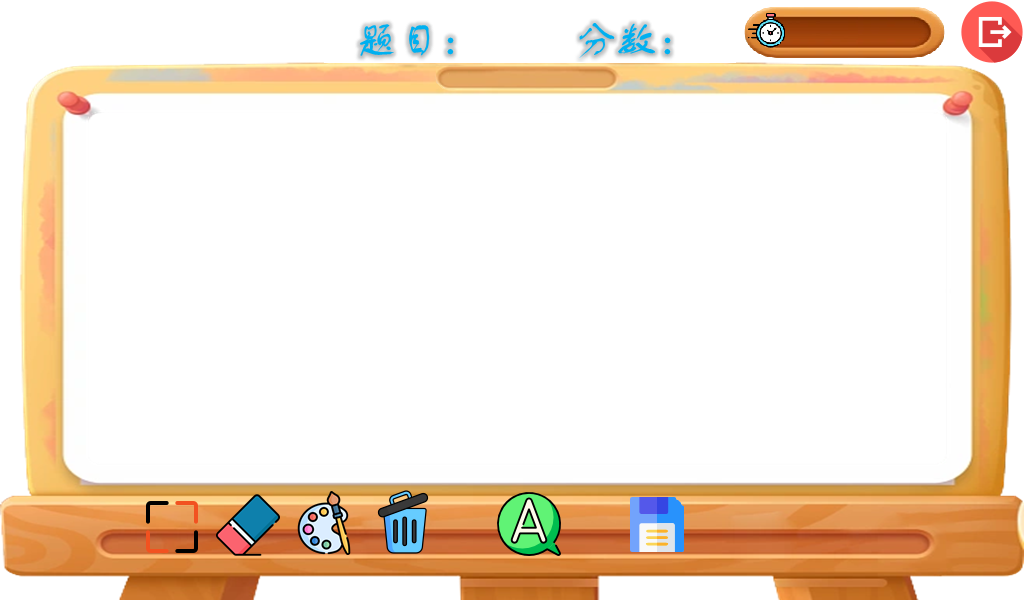
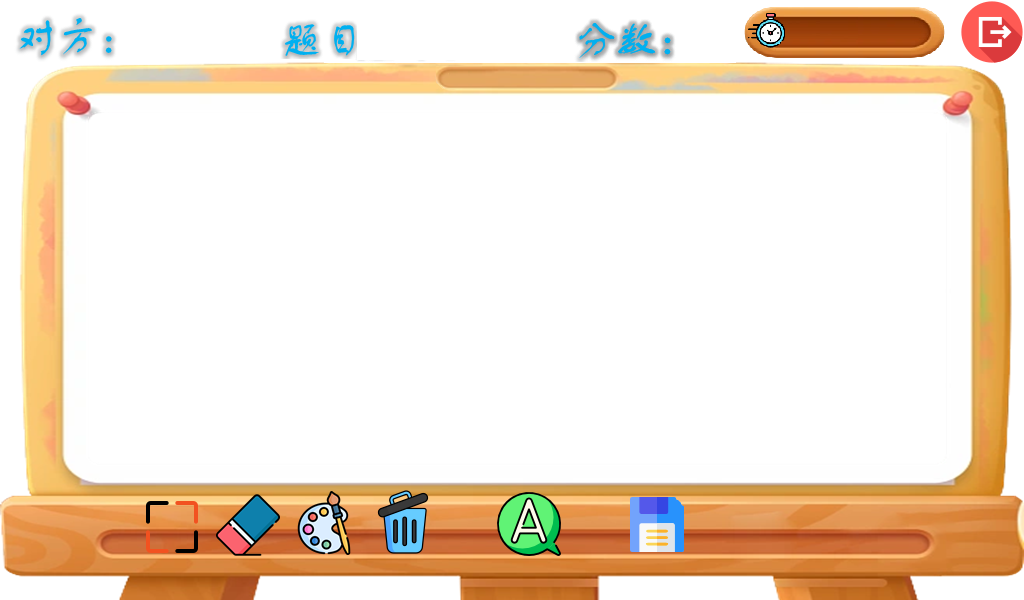
bug fix

Changed region(s): [[0.25, 0.03, 0.4688, 0.12], [0.5625, 0.03, 0.6562, 0.12], [0.0, 0.03, 0.125, 0.09]]

diff --git a/final/main.c b/final/main.c
@@ -130,6 +130,7 @@ static void draw_background(){
 	return;
 }
 
+/*
 static void draw_clear_button(){
 	if(role == BOTH){
 		// in free mode, disable Clear button 
@@ -151,12 +152,6 @@ static void draw_speak_button(){
 
 static void draw_tools(){
 	fb_image *img;
-	/*
-	img = fb_read_png_image("./test.png");
-	fb_draw_image(100,300,img,0);
-	fb_update();
-	fb_free_image(img);	
-	*/
 	img = fb_read_png_image("./color-palette.png");
 	fb_draw_image(6,BUTTON_Y_CLEAR - TOOL_SIZE,img,0);
 	fb_update();
@@ -172,13 +167,15 @@ static void draw_tools(){
 	fb_free_image(img);	
 }
 
+*/
+
 static void update_sizetool(){
-	fb_draw_circle(6+(TOOL_SIZE>>1), BUTTON_Y_CLEAR - (TOOL_SIZE<<1) - (TOOL_SIZE>>1), line_r, get_color_real(0));
+	fb_draw_circle(TOOL_X1 + (TOOL_SIZE>>1), TOOL_Y1 + (TOOL_SIZE>>1), line_r, get_color_real(0));
 	fb_update();
 }
 
 static void change_line_r(){
-	fb_draw_circle(6+(TOOL_SIZE>>1), BUTTON_Y_CLEAR - (TOOL_SIZE<<1) - (TOOL_SIZE>>1), line_r, WHITE);
+	fb_draw_circle(TOOL_X1 + (TOOL_SIZE>>1), TOOL_Y1 + (TOOL_SIZE>>1), line_r, WHITE);
 	fb_update();
 	line_r <<= 1;
 	if(line_r > LINE_R_MAX)
@@ -294,9 +291,9 @@ static void draw_timer(){
 		printf("timer error!\n");
 		return;
 	}
-	char buf[10];
+	char buf[12];
 	sprintf(buf, "%d", timer);
-
+	printf("timer = %d\n", timer);
 	fb_image *img;
 	img = fb_read_png_image("./time-bar.png");
 	fb_draw_image(TIMEBAR_X,TIMEBAR_Y,img,0);
@@ -329,9 +326,9 @@ static void draw_timer(){
 		}
 	}
 
-	fb_draw_line_wide(TIME_LINE_CIRCLE_X1 + timer, TIME_LINE_CIRCLE_Y, TIME_LINE_CIRCLE_X2, TIME_LINE_CIRCLE_Y, TIME_LINE_CIRCLE_R, color);
+	fb_draw_line_wide(TIME_LINE_CIRCLE_X1 + TIME_INIT - timer, TIME_LINE_CIRCLE_Y, TIME_LINE_CIRCLE_X2, TIME_LINE_CIRCLE_Y, TIME_LINE_CIRCLE_R, color);
 	img = fb_read_png_image("./clock.png");
-	fb_draw_image(CLOCK_X + timer, CLOCK_Y, img, 0);
+	fb_draw_image(CLOCK_X + TIME_INIT - timer, CLOCK_Y, img, 0);
 	fb_update();
 	fb_free_image(img);	
 
@@ -434,7 +431,7 @@ static void into_guesser_page(){
 	draw_background();
 	draw_page("./board_guesser.png");
 	char str[20];
-	char bstr[20];
+	
 	draw_guesser_reply("./guess-fighting.png");
 	sprintf(str, "%d", score);
 	fb_draw_text(SCORE_X, SCORE_Y, str, HEAD_FONTSIZE, ORANGE);
@@ -484,6 +481,7 @@ static void timer_cb(int period) /*该函数1秒执行一次*/
 static void into_main_page(){
 	//restart everything from main page
 	draw_background();
+	srand(time(NULL));
 	role = NO_ROLE;
 	guessing = 0;
 	in_image_page = 0;
@@ -496,7 +494,7 @@ static void into_main_page(){
 	eraser = 0;
 	eraser_op = 0;
 	for(int i=0;i<WORDS_LEN;i++)	used[i] = 0;
-	draw_background();
+	draw_page("./main.png");
 
 	printf("The game is ready!\n");
 }
@@ -534,6 +532,7 @@ static void into_next_turn(){
 	update_score();
 	guessing = 0;
 	timer = TIME_INIT;
+	char bstr[20];
 	if((role == DRAWER)) {
 		role = GUESSER;
 		printf("you are guesser.\n");
@@ -589,15 +588,18 @@ static void bluetooth_tty_event_cb(int fd)
 			printf("your role is :%d\n",role);
 			if(role == DRAWER){
 				printf("your role is drawer.\n");
-				draw_role1();
+				//draw_role1();
+				into_drawer_page();
 			}	
 			else if(role == GUESSER){
 				printf("your role is guesser.\n");
-				draw_role2();
+				//draw_role2();
+				into_guesser_page();
 			}
 			else	if(role == BOTH){
 				printf("your role is drawer and guesser.\n");
-				draw_role1();
+				//draw_role1();
+				into_drawer_page();
 			}
 			else	printf("warning : you received a invalid message.(case 0)\n");
 			break;
@@ -794,8 +796,32 @@ int touch_area_game(int x, int y){
 	return TOUCH_INVALID;
 }
 
-static void touch_handle_game(int x, int y){
+static void handle_speak(){
+	char bstr[132];
+	pcm_info_st pcm_info;
+	if(role == GUESSER)
+		draw_guesser_reply("./guess-recording.png");
+	uint8_t *pcm_buf = audio_record(3000, &pcm_info); //录3秒音频
+	if(pcm_info.sampleRate != PCM_SAMPLE_RATE) { //实际录音采用率不满足要求时 resample
+		uint8_t *pcm_buf2 = pcm_s16_mono_resample(pcm_buf, &pcm_info, PCM_SAMPLE_RATE, &pcm_info);
+		pcm_free_buf(pcm_buf);
+		pcm_buf = pcm_buf2;
+	}
+	pcm_write_wav_file(pcm_buf, &pcm_info, "/tmp/test.wav");
+	printf("write wav end\n");
+	if(role == GUESSER)
+		draw_guesser_reply("./guess-waiting.png");		
+	pcm_free_buf(pcm_buf);
+	char *rev = send_to_vosk_server("/tmp/test.wav");
+	printf("recv from server: %s\n", rev);
+	sprintf(bstr, "3 %s\n", rev);
+	myWrite_nonblock(bluetooth_fd, bstr, strlen(bstr));
+}
+
+static void touch_handle_game(int x, int y, int finger){
 	int touch_area = touch_area_game(x,y);
+	int color;
+	char bstr[132];
 	switch (touch_area)
 	{
 		case TOUCH_INVALID:
@@ -844,24 +870,8 @@ static void touch_handle_game(int x, int y){
 			break;
 		case TOUCH_SPEAK:
 			//speak
-			pcm_info_st pcm_info;
-			if(role == GUESSER)
-				draw_guesser_reply("./guess-recording.png");
-			uint8_t *pcm_buf = audio_record(3000, &pcm_info); //录3秒音频
-			if(pcm_info.sampleRate != PCM_SAMPLE_RATE) { //实际录音采用率不满足要求时 resample
-				uint8_t *pcm_buf2 = pcm_s16_mono_resample(pcm_buf, &pcm_info, PCM_SAMPLE_RATE, &pcm_info);
-				pcm_free_buf(pcm_buf);
-				pcm_buf = pcm_buf2;
-			}
-			pcm_write_wav_file(pcm_buf, &pcm_info, "/tmp/test.wav");
-			printf("write wav end\n");
-			if(role == GUESSER)
-				draw_guesser_reply("./guess-waiting.png");		
-			pcm_free_buf(pcm_buf);
-			char *rev = send_to_vosk_server("/tmp/test.wav");
-			printf("recv from server: %s\n", rev);
-			sprintf(bstr, "3 %s\n", rev);
-			myWrite_nonblock(bluetooth_fd, bstr, strlen(bstr));
+			handle_speak();
+			
 			break;
 		case TOUCH_SAVE:
 			printf("Save the picture.\n");
@@ -869,7 +879,7 @@ static void touch_handle_game(int x, int y){
 			break;
 		case TOUCH_EXIT:
 			printf("Exit.\n");
-			init_game();
+			into_main_page();
 			break;
 		default:
 			break;
@@ -877,12 +887,13 @@ static void touch_handle_game(int x, int y){
 			
 }
 
-static void move_handle_game(x, y, finger){
+static void move_handle_game(int x, int y, int finger){
 	if(role == GUESSER){
 		//printf("You cannot draw because you are the guesser.\n");
-		break;
+		return;
 	}
-	color = get_color(finger);
+	char bstr[132];
+	int color = get_color(finger);
 	/*
 	if((role == DRAWER) && (x >= 0 && x < TEXTFRAME_X + TEXTFRAME_W + line_r && y >= 0 && y < TEXTFRAME_Y + pen_y + 6 + line_r)){
 		if(old[finger].x < TEXTFRAME_X + TEXTFRAME_W + line_r){
@@ -981,7 +992,6 @@ static void touch_event_cb(int fd)
 {
 	int type,x,y,finger;
 	type = touch_read(fd, &x,&y,&finger);
-	int color = COLOR_BACKGROUND;
 	char bstr[132];
 	if(in_image_page){
 		
@@ -1049,7 +1059,7 @@ static void touch_event_cb(int fd)
 	switch(type){
 		case TOUCH_PRESS:
 			//printf("type=%d,x=%d,y=%d,finger=%d\n",type,x,y,finger);
-			touch_handle_game(x, y);
+			touch_handle_game(x, y, finger);
 			break;
 			
 		case TOUCH_MOVE:
@@ -1087,7 +1097,7 @@ int main(int argc, char *argv[])
 {
 	fb_init("/dev/fb0");
 	font_init("./font.ttc");
-	srand(time(NULL));
+	
 	audio_record_init(NULL, PCM_SAMPLE_RATE, 1, 16); //单声道，S16采样
 
 	into_main_page();

diff --git a/final/config.h b/final/config.h
@@ -64,7 +64,7 @@ static char * send_to_vosk_server(char *file);
 #define TIME_INIT 145
 
 #define HEAD_FONTSIZE 40
-#define DRAW_TOPIC_FONT_X 466
+#define DRAW_TOPIC_FONT_X 391
 #define DRAW_TOPIC_FONT_Y 54
 
 #define GUESS_REPLY_X 367
@@ -74,7 +74,7 @@ static char * send_to_vosk_server(char *file);
 #define REPLY_W 142
 #define REPLY_H 38
 
-#define WORDS_MAX_W 120
+#define WORDS_MAX_W 180
 
 #define SCORE_X 678
 #define SCORE_Y 54
@@ -168,9 +168,11 @@ static void into_image_page();
 
 //static void draw_role2();
 
-static void touch_handle_game(int x, int y);
+static void touch_handle_game(int x, int y, int finger);
 
-static void move_handle_game(x, y, finger);
+static void move_handle_game(int x, int y, int finger);
+
+static void handle_speak();
 
 static void bluetooth_tty_event_cb(int fd);
 
